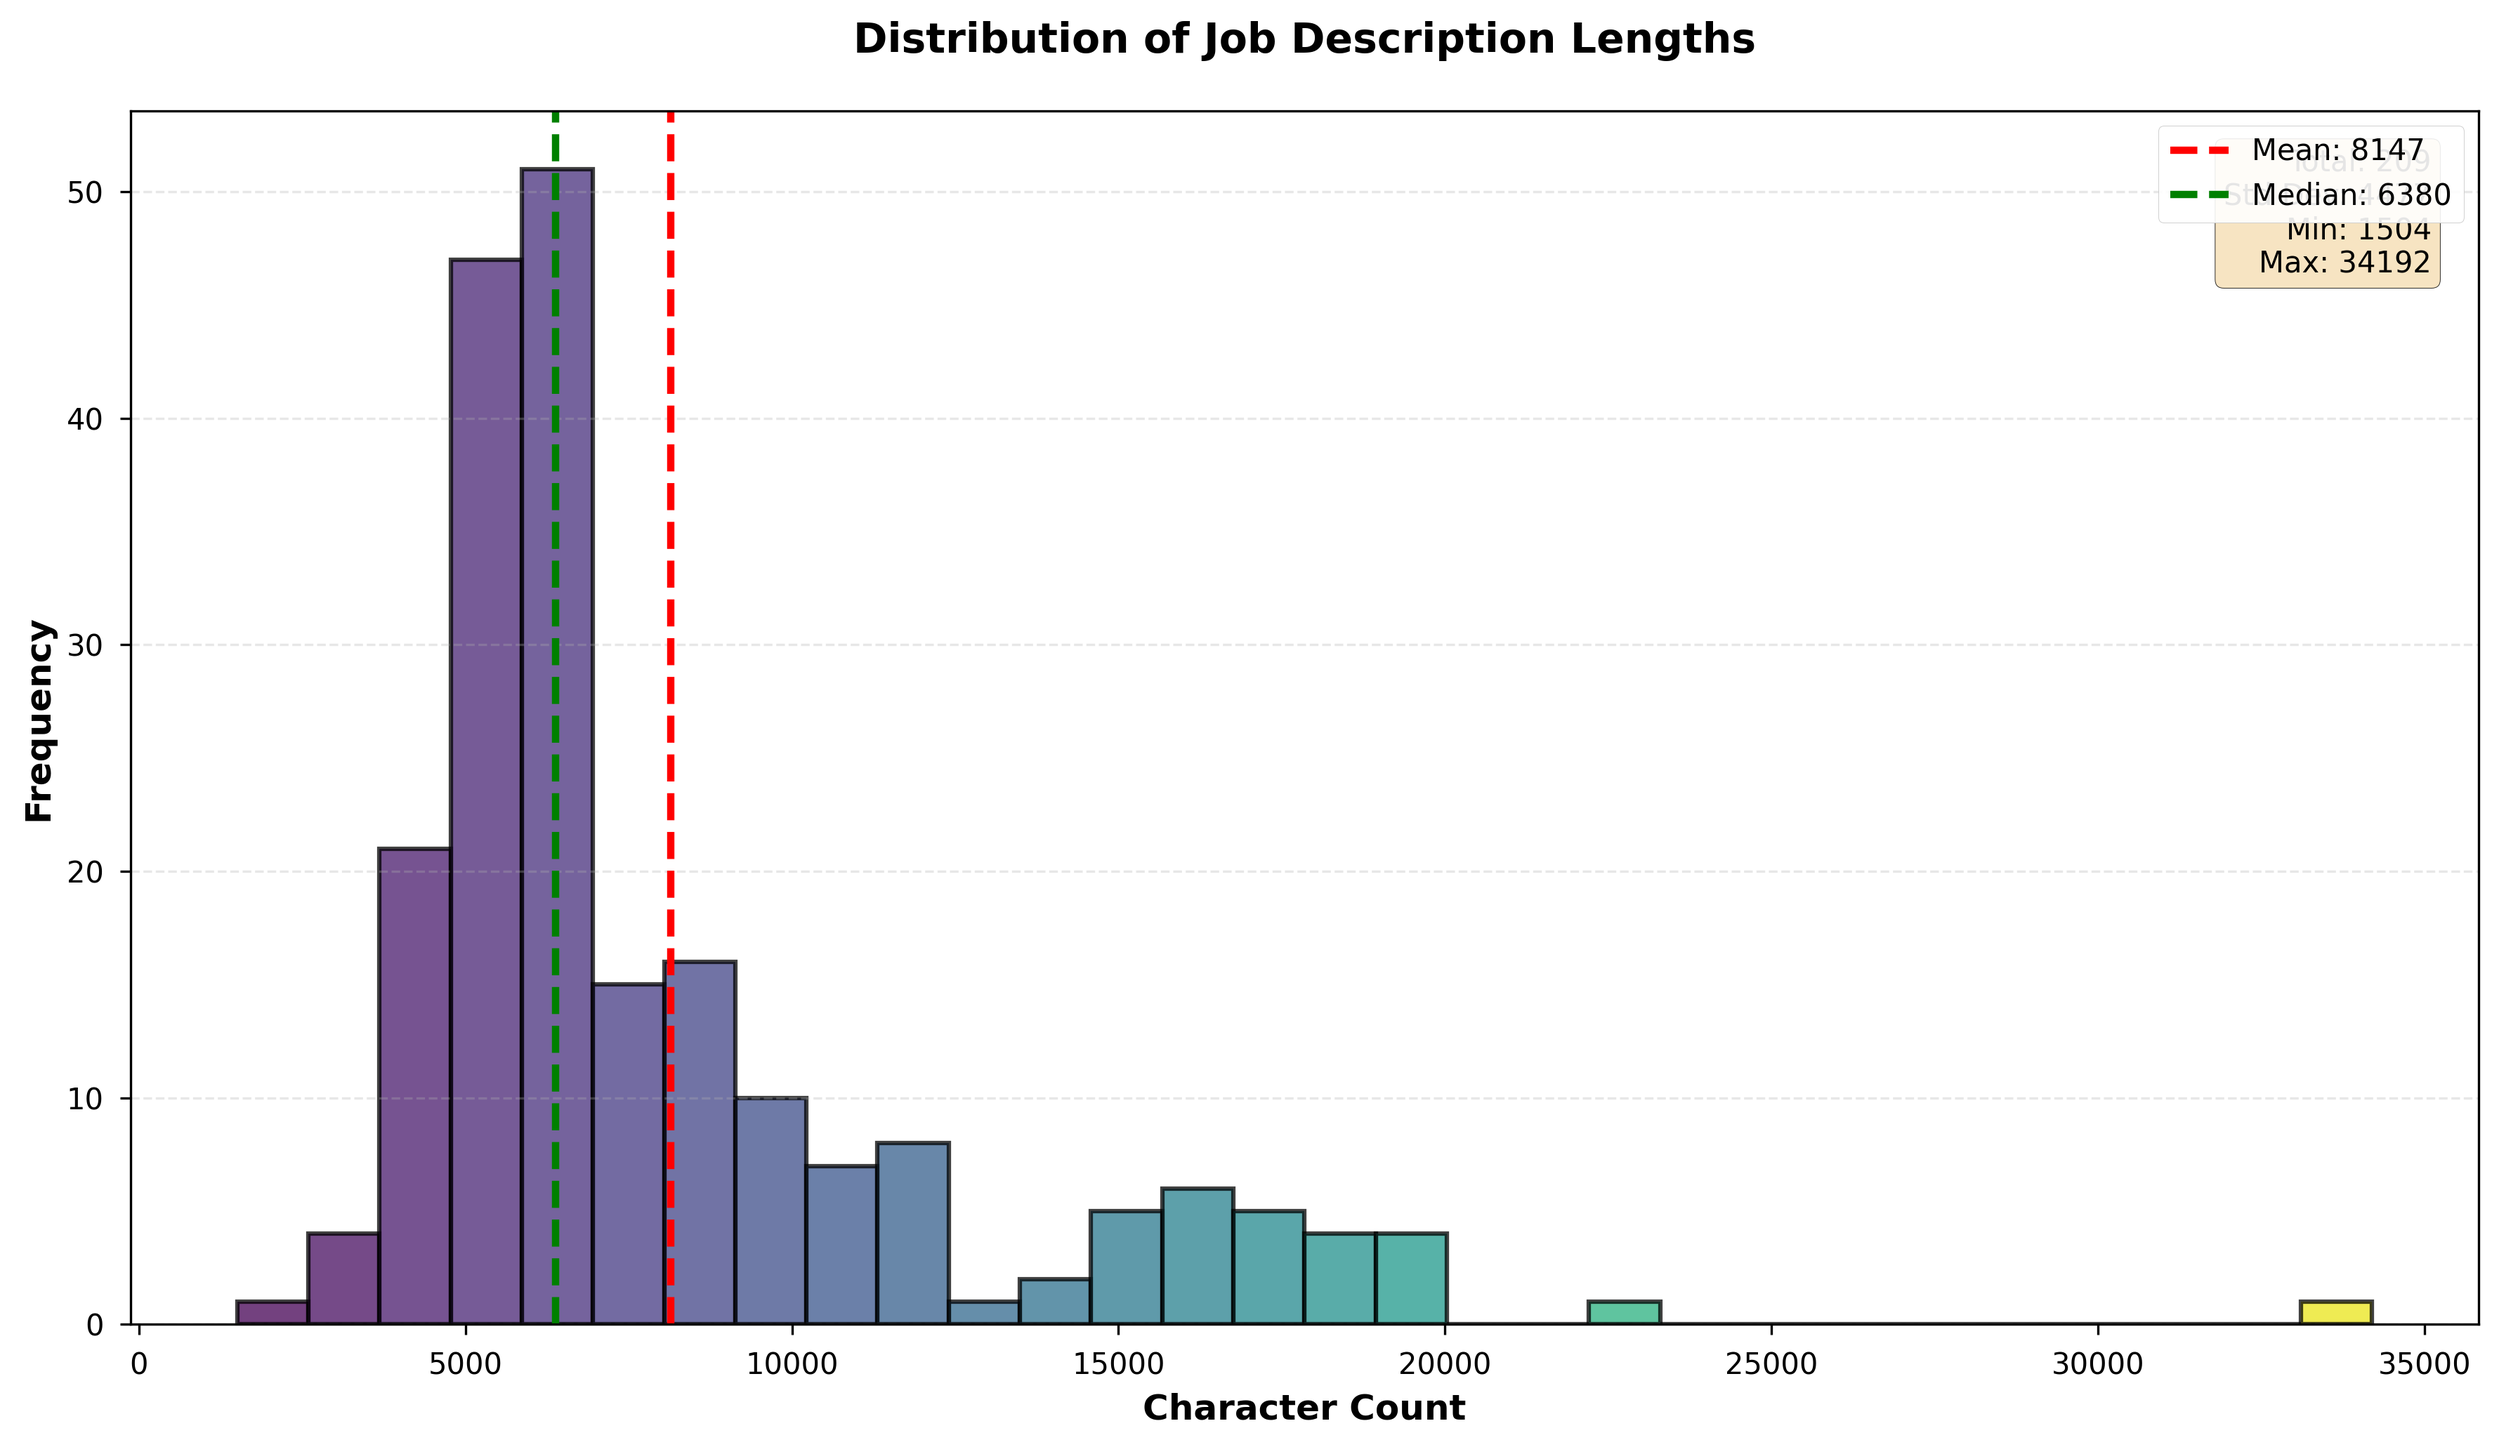
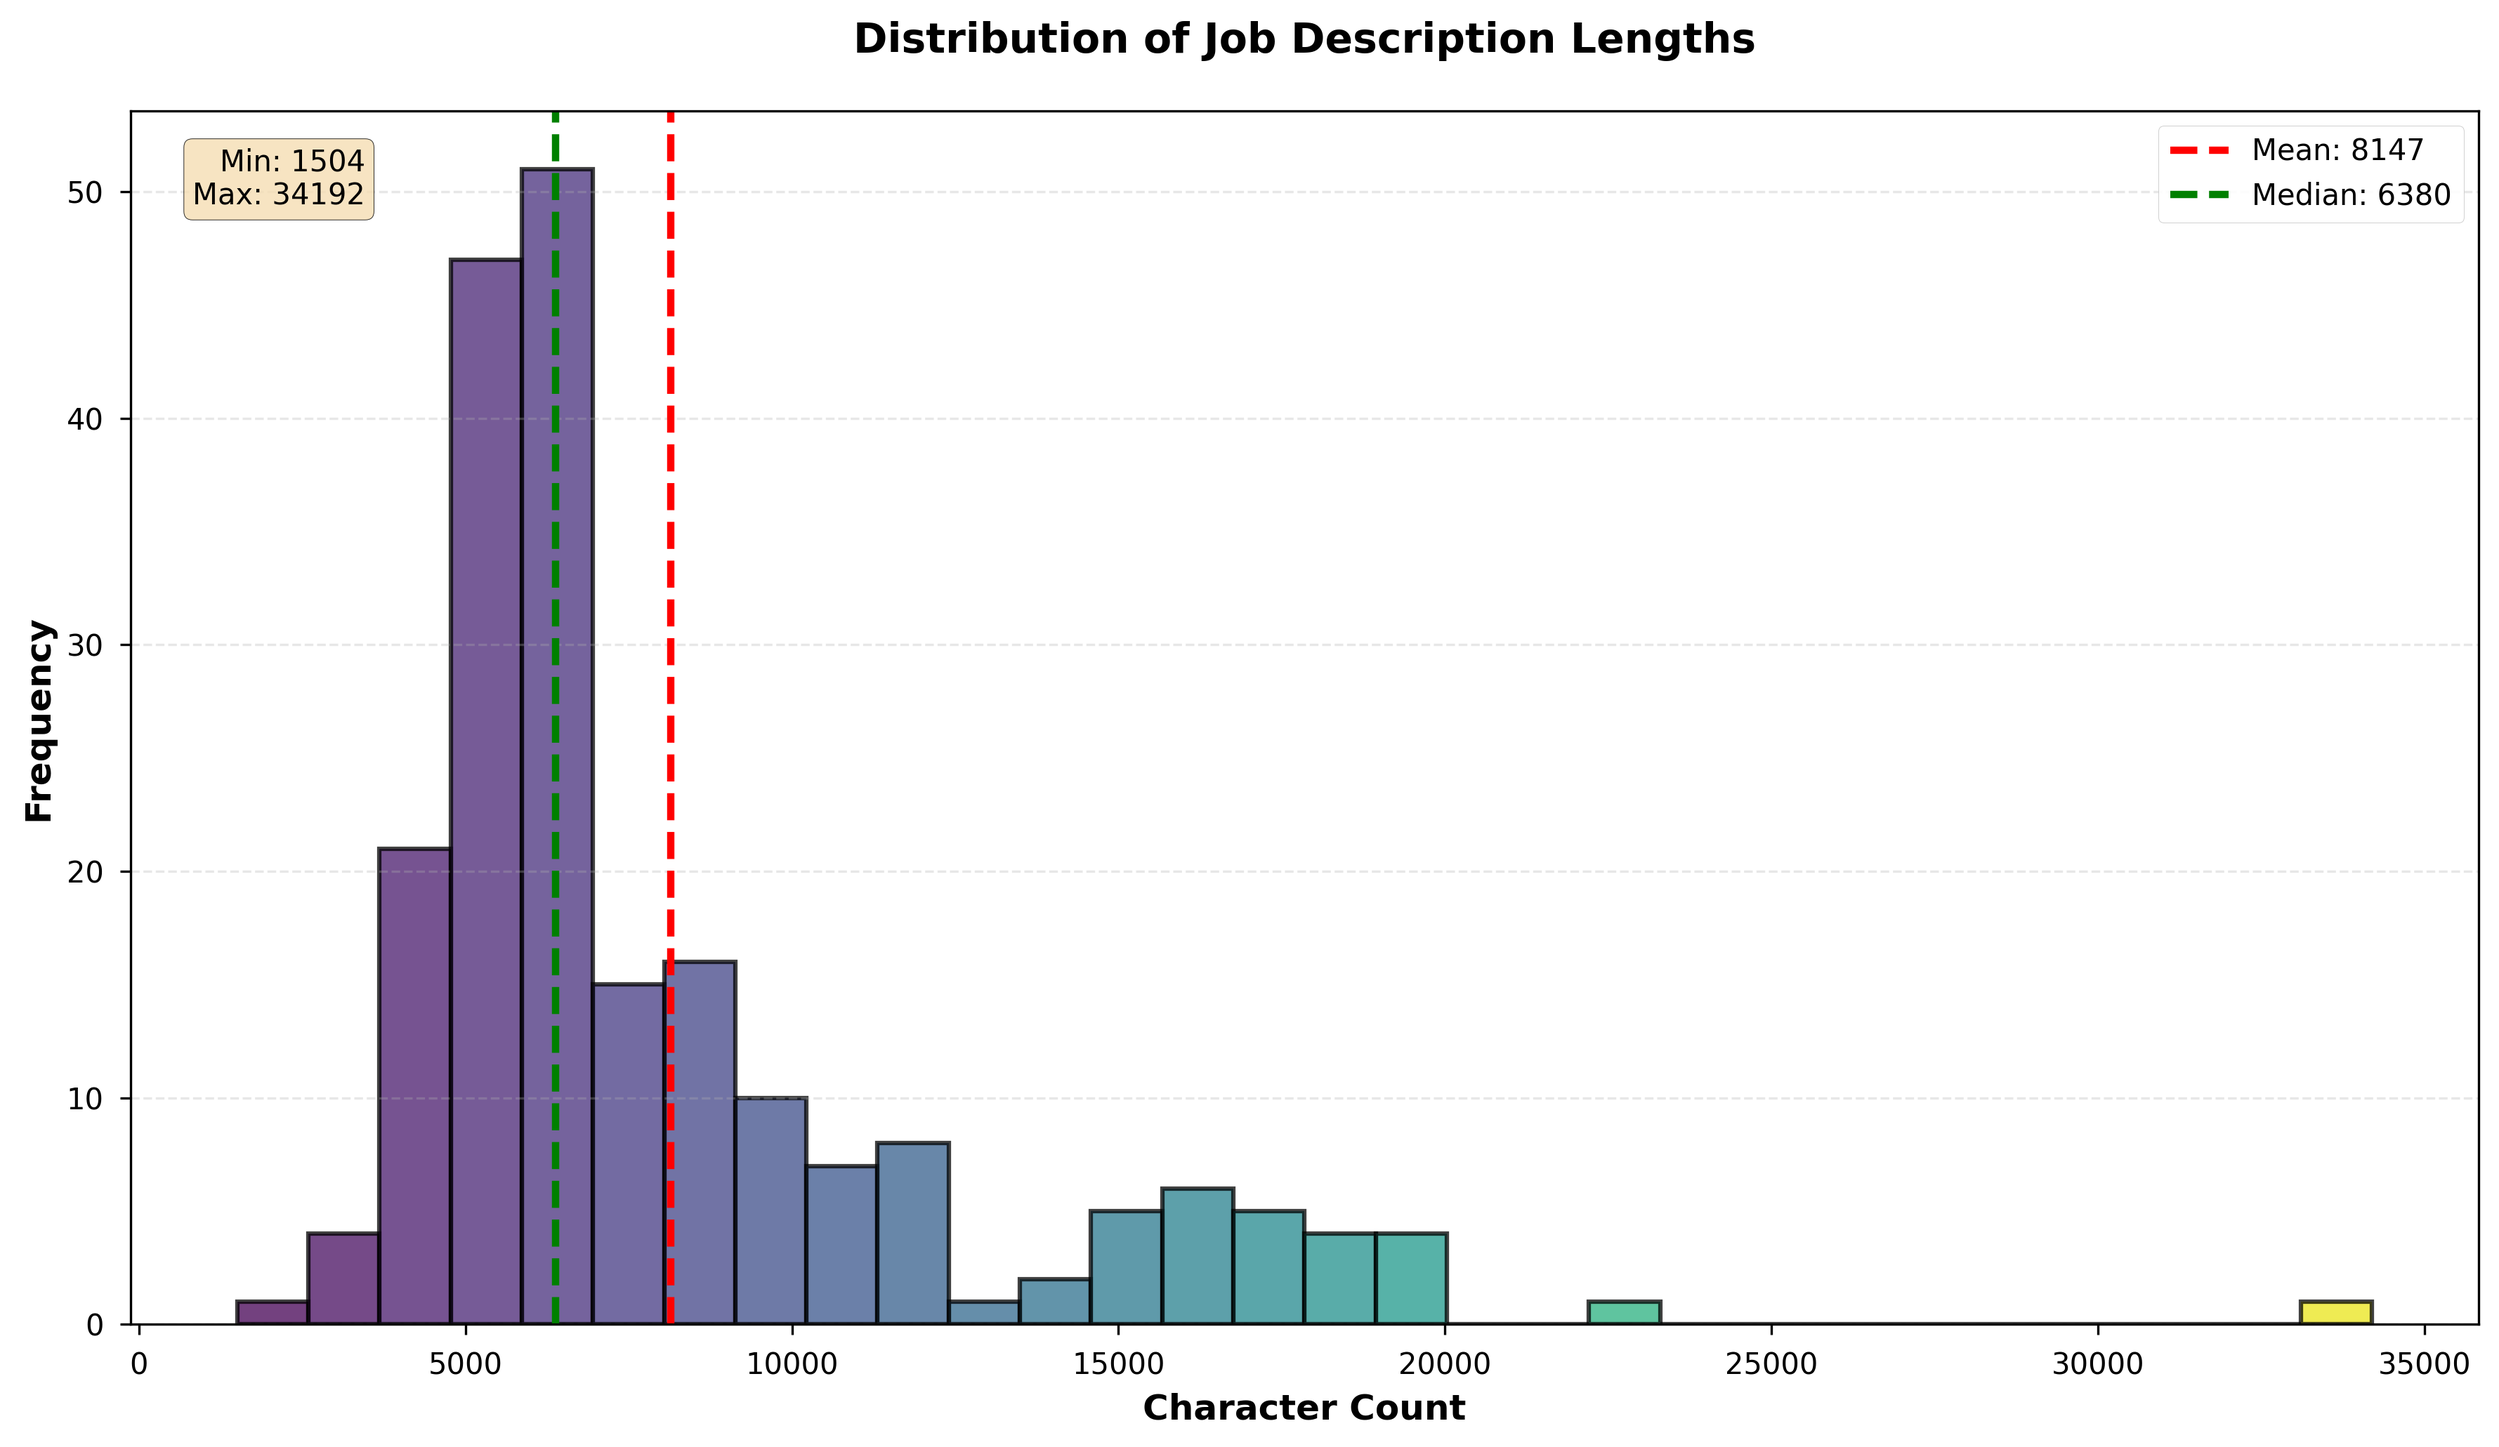
Refactor to update stats box

Changed region(s): [[0.8735, 0.1242, 0.9983, 0.2174], [0.0624, 0.0932, 0.156, 0.1553]]

diff --git a/visualisation/plot_distribution_lengths.py b/visualisation/plot_distribution_lengths.py
@@ -51,11 +51,10 @@ ax.axvline(mean_val, color='red', linestyle='--',
 ax.axvline(median_val, color='green', linestyle='--',
             label=f'Median: {median_val:.0f}', linewidth=2.5)
 
-stats_text = f'Total: {len(character_counts)}\n'
-stats_text += f'Std Dev: {np.std(character_counts):.0f}\n'
-stats_text += f'Min: {np.min(character_counts):.0f}\n'
+
+stats_text = f'Min: {np.min(character_counts):.0f}\n'
 stats_text += f'Max: {np.max(character_counts):.0f}'
-ax.text(0.98, 0.97, stats_text, transform=ax.transAxes,
+ax.text(0.1, 0.97, stats_text, transform=ax.transAxes,
          fontsize=10, verticalalignment='top', horizontalalignment='right',
          bbox=dict(boxstyle='round', facecolor='wheat', alpha=0.8))
 
